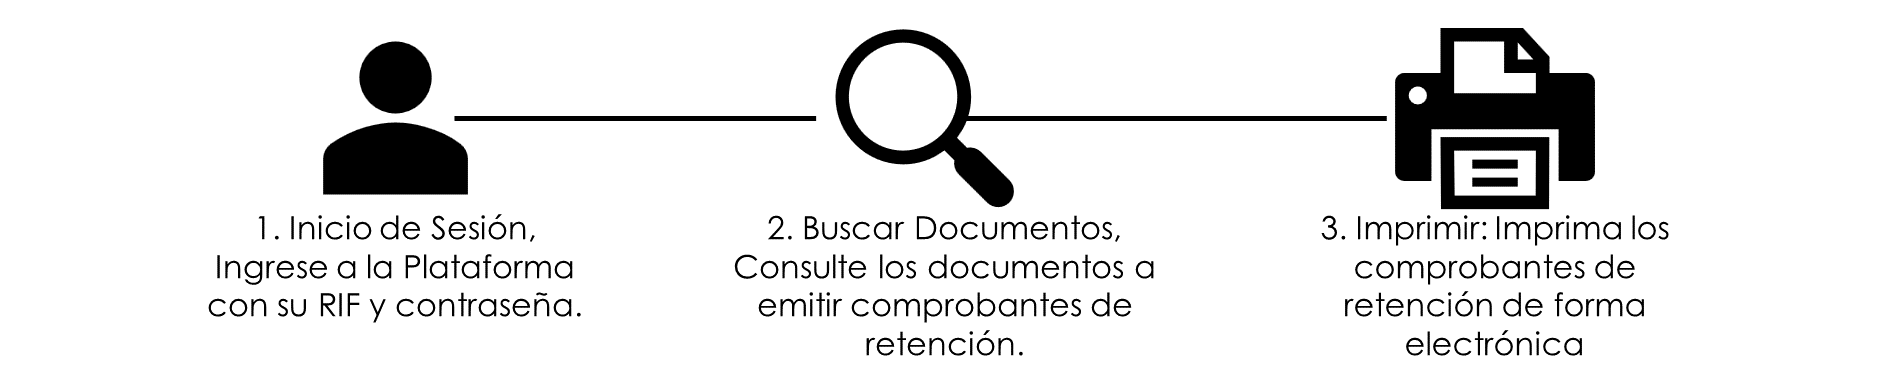
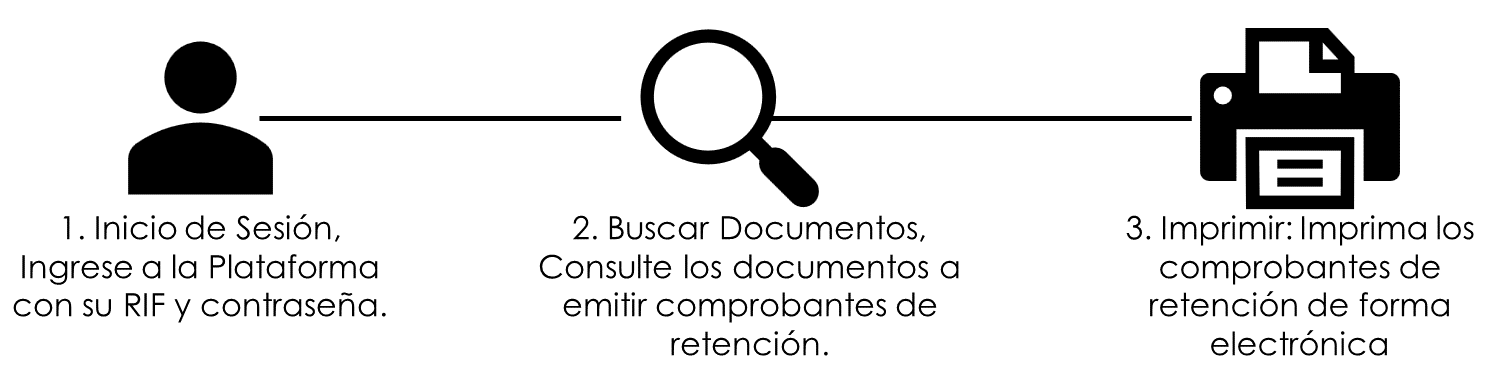
commit

diff --git a/css/styles.css b/css/styles.css
@@ -361,6 +361,7 @@ input[type=text]:placeholder, input[type=password]::placeholder {
 
 .contenedor-bot {
   display: flex;
+  justify-content: center;
   width: 100%;
   height: 540px;
 }

diff --git a/index.php b/index.php
@@ -49,9 +49,7 @@ $LOGOEMP = "./images/".$EMPRESA."-logo-emp.png";
         </div>
     </div>
     <div class="contenedor-bot">
-
         <center><img src="./images/info.png" height="250px"></center>
-
     </div>
 </body>
 
